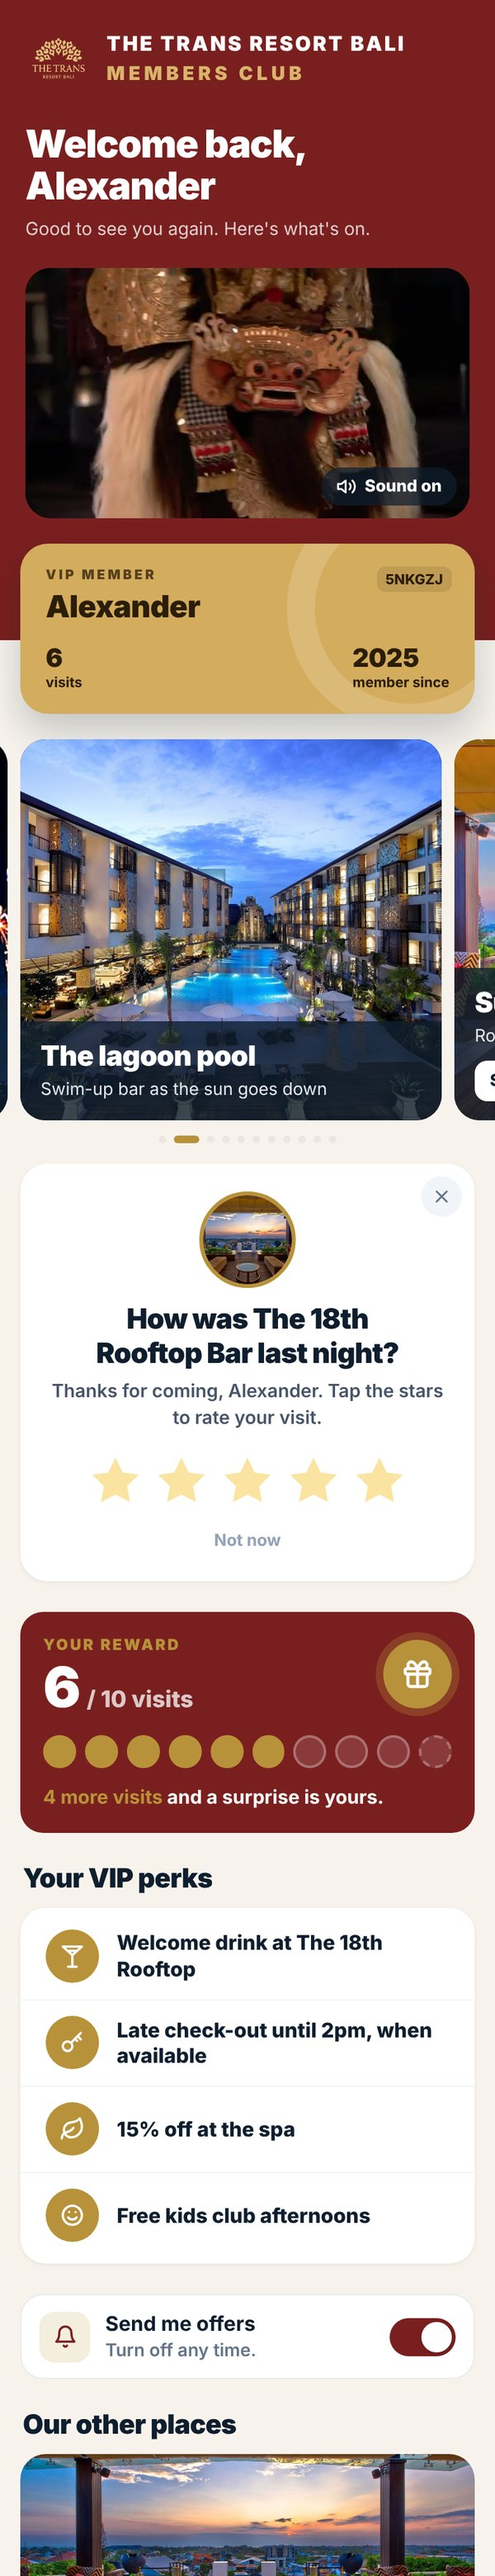
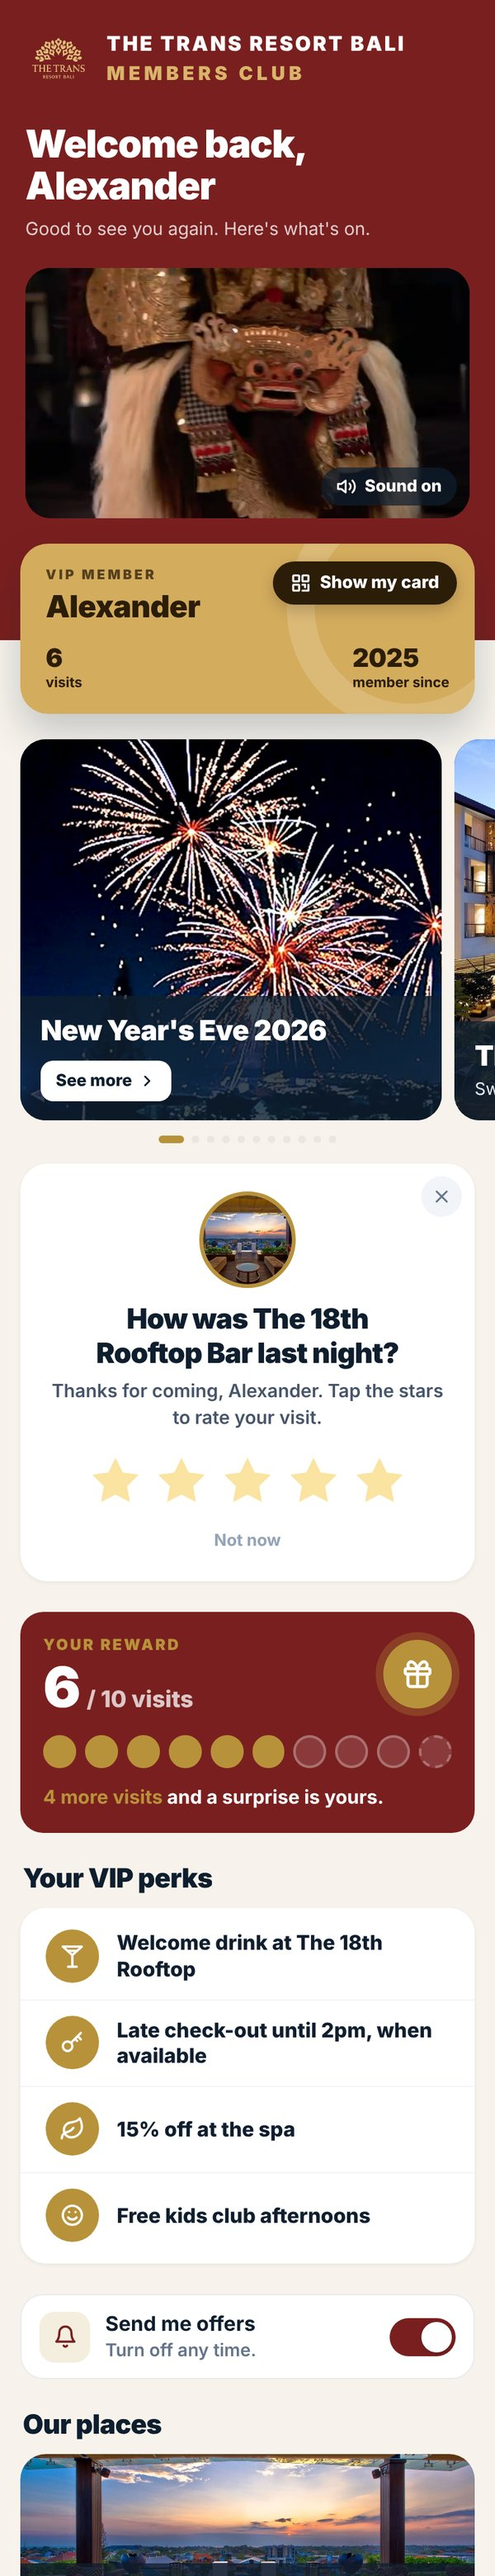
Sales page: app screenshots show the new 'Show my card' button; At the bill adds 'No keyring? Their app shows it'
Claude-Session: https://claude.ai/code/session_01PDrfwPm1ywymGCuyADBdVM

diff --git a/membership/index.html b/membership/index.html
@@ -412,6 +412,8 @@ h2{letter-spacing:-1px;line-height:1.1}
 
 .grp{display:flex;justify-content:center;margin-top:22px}.grp .phone{width:min(320px,78vw)!important;position:relative!important;right:auto!important;bottom:auto!important}
 .nw{font-style:normal;white-space:nowrap}
+.phones.five.six > div{width:min(15.5%,200px)}
+@media(max-width:700px){.phones.five.six > div{width:72%!important}}
 </style>
 </head>
 <body>
@@ -484,8 +486,8 @@ h2{letter-spacing:-1px;line-height:1.1}
 </div></section>
 
 <section class="feat sand" id="bill"><div class="wrap">
-  <div class="copy"><div class="kick">At the bill</div><h2>Scan. Tap. Done.</h2><p class="lead">They show their keyring when they pay. Your team sees big, simple screens, one at a time.</p></div>
-  <div class="phones five rv"><div><div class="phone"><img src="/img/club/w-in.jpg" alt="Checked in: Alexander, VIP, 10th visit" loading="lazy"></div><span class="cap">1. Who they are</span></div><div><div class="phone"><img src="/img/club/w-perks.jpg" alt="Their perks" loading="lazy"></div><span class="cap">2. Their perks</span></div><div><div class="phone"><img src="/img/club/w-know.jpg" alt="Good to know: allergy and notes" loading="lazy"></div><span class="cap">3. Allergies and notes</span></div><div><div class="phone"><img src="/img/club/w-reward.jpg" alt="Reward time" loading="lazy"></div><span class="cap">4. Their reward, when earned</span></div><div><div class="phone"><img src="/img/club/w-bill.jpg" alt="Type the bill" loading="lazy"></div><span class="cap">5. The bill</span></div></div>
+  <div class="copy"><div class="kick">At the bill</div><h2>Scan. Tap. Done.</h2><p class="lead">They show their keyring, or the card in their app, when they pay. Your team sees big, simple screens, one at a time.</p></div>
+  <div class="phones five six rv"><div><div class="phone"><img src="/img/club/w-in.jpg" alt="Checked in: Alexander, VIP, 10th visit" loading="lazy"></div><span class="cap">1. Who they are</span></div><div><div class="phone"><img src="/img/club/w-perks.jpg" alt="Their perks" loading="lazy"></div><span class="cap">2. Their perks</span></div><div><div class="phone"><img src="/img/club/w-know.jpg" alt="Good to know: allergy and notes" loading="lazy"></div><span class="cap">3. Allergies and notes</span></div><div><div class="phone"><img src="/img/club/w-reward.jpg" alt="Reward time" loading="lazy"></div><span class="cap">4. Their reward, when earned</span></div><div><div class="phone"><img src="/img/club/w-bill.jpg" alt="Type the bill" loading="lazy"></div><span class="cap">5. The bill</span></div><div><div class="phone"><img src="/img/club/g-mycard.jpg" alt="No keyring? They tap Show my card and the QR opens on their phone" loading="lazy"></div><span class="cap">No keyring? Their app shows it</span></div></div>
   <div class="swipe">SWIPE FOR MORE &rarr;</div>
 </div></section>
 
